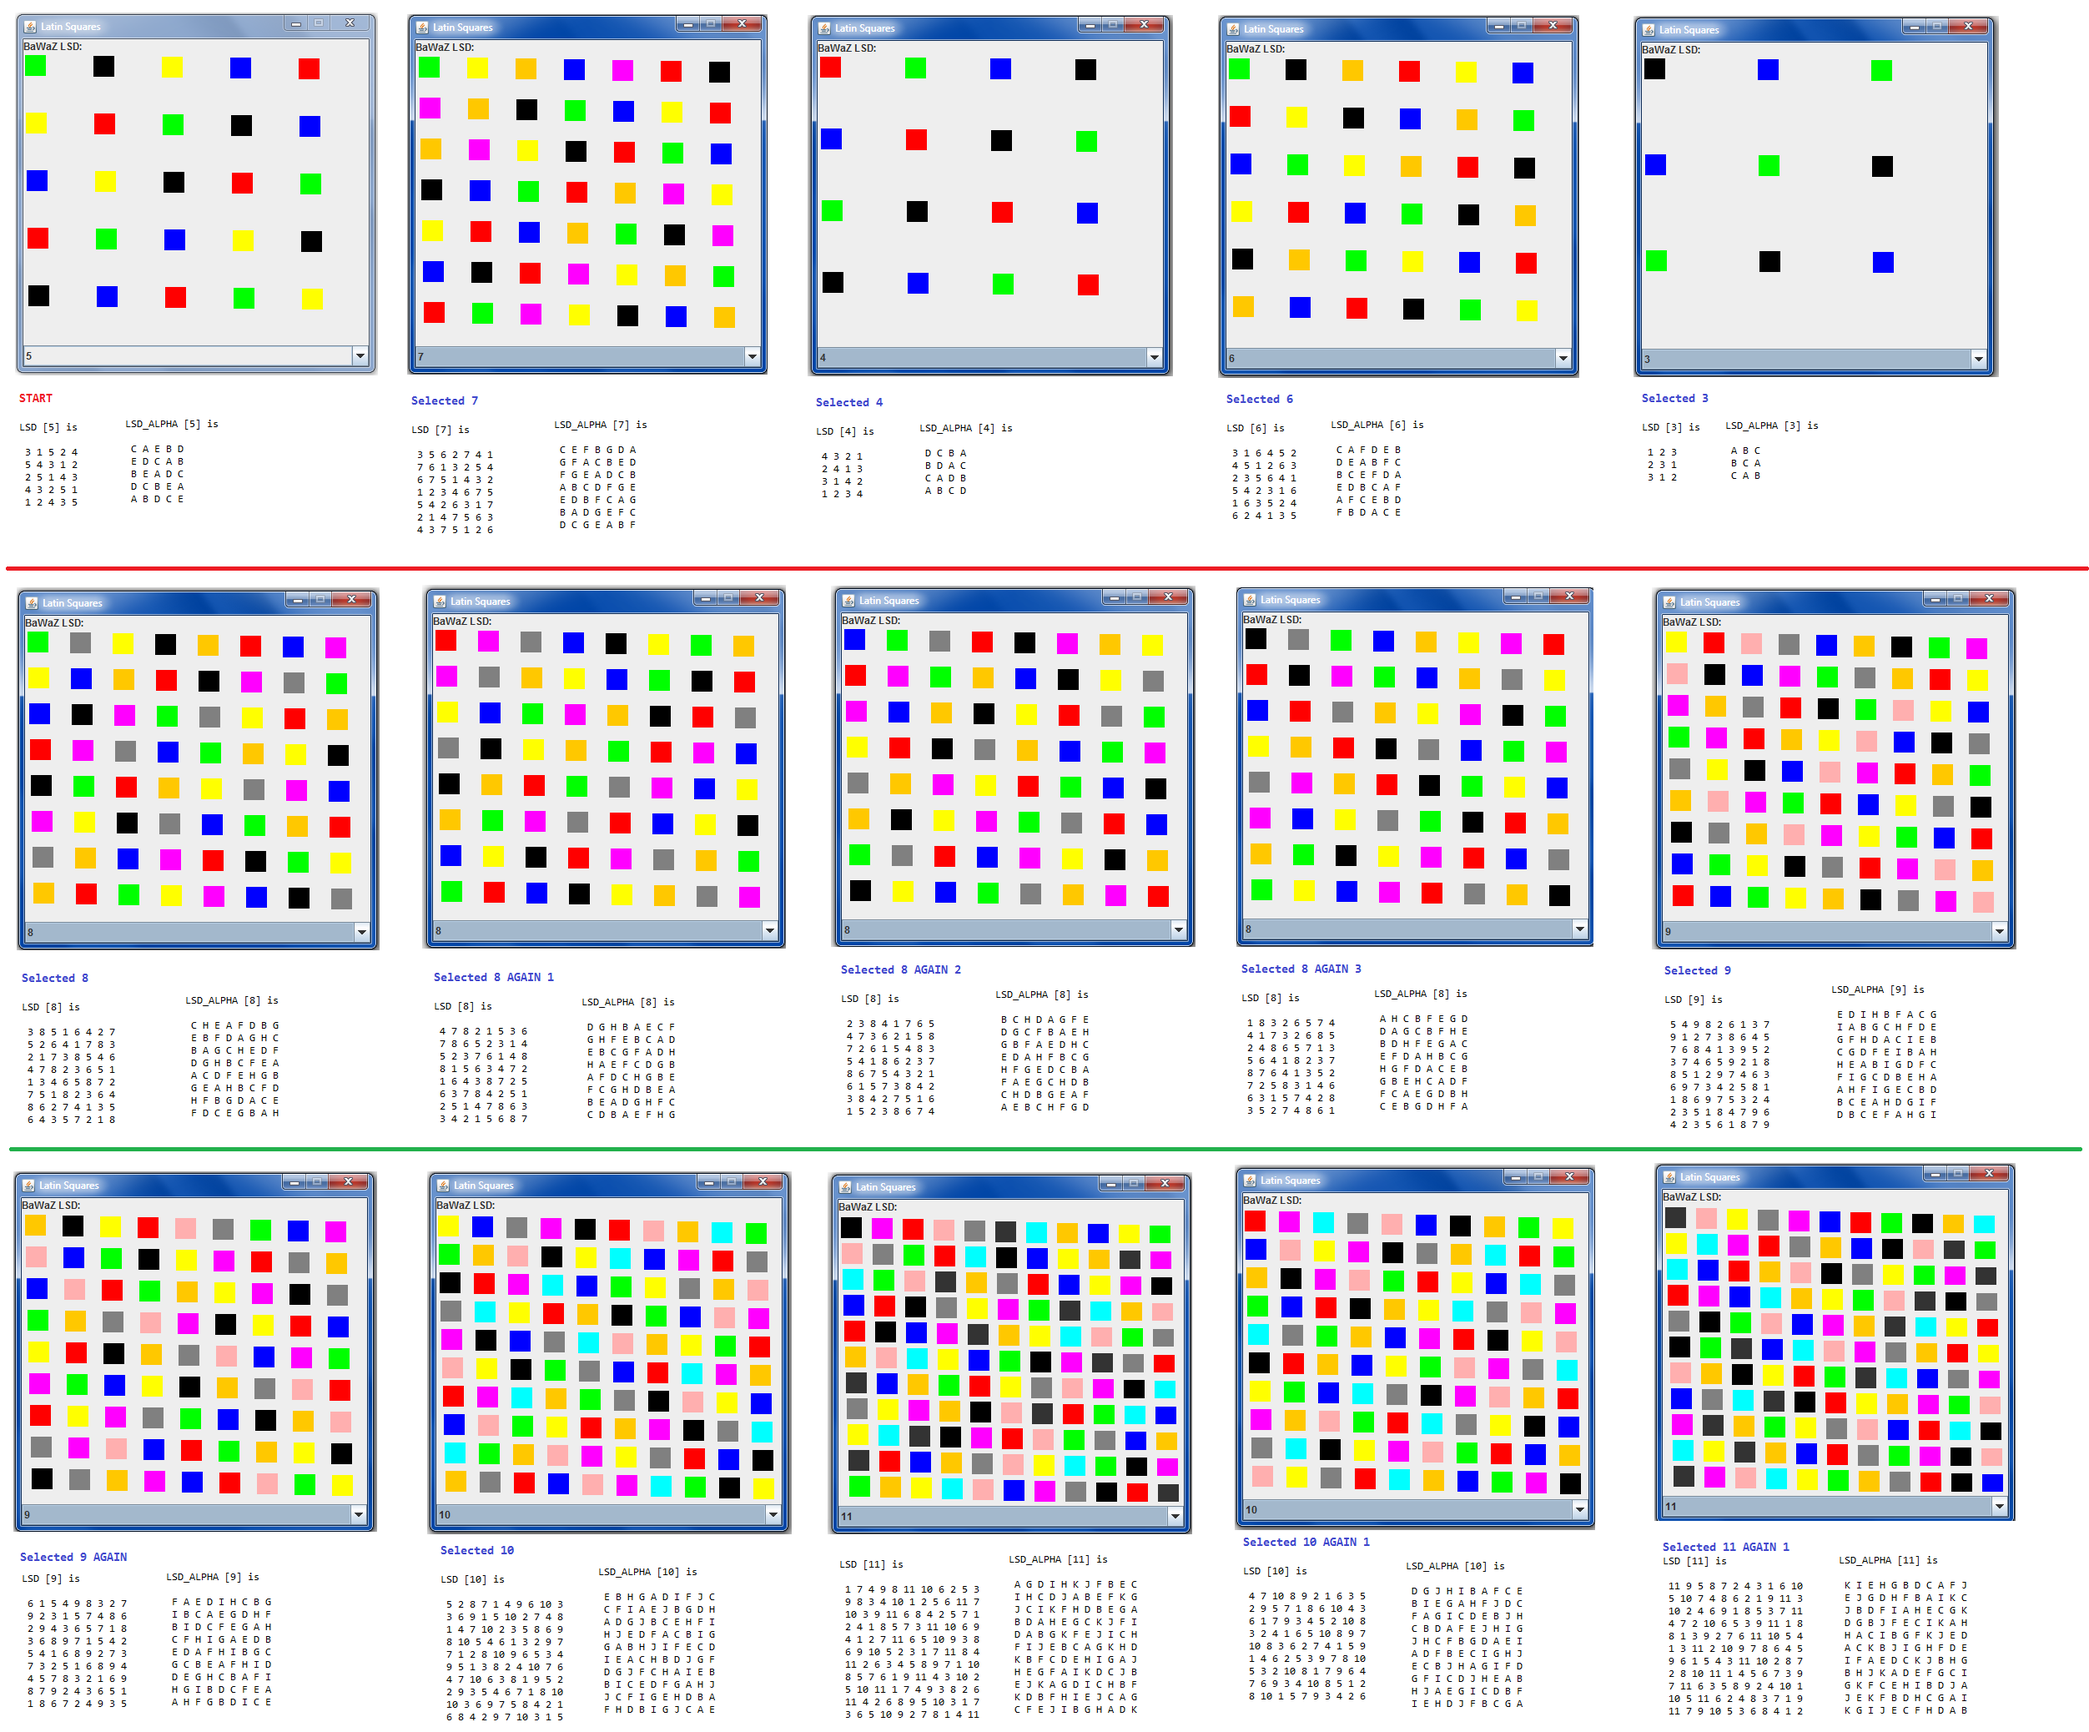
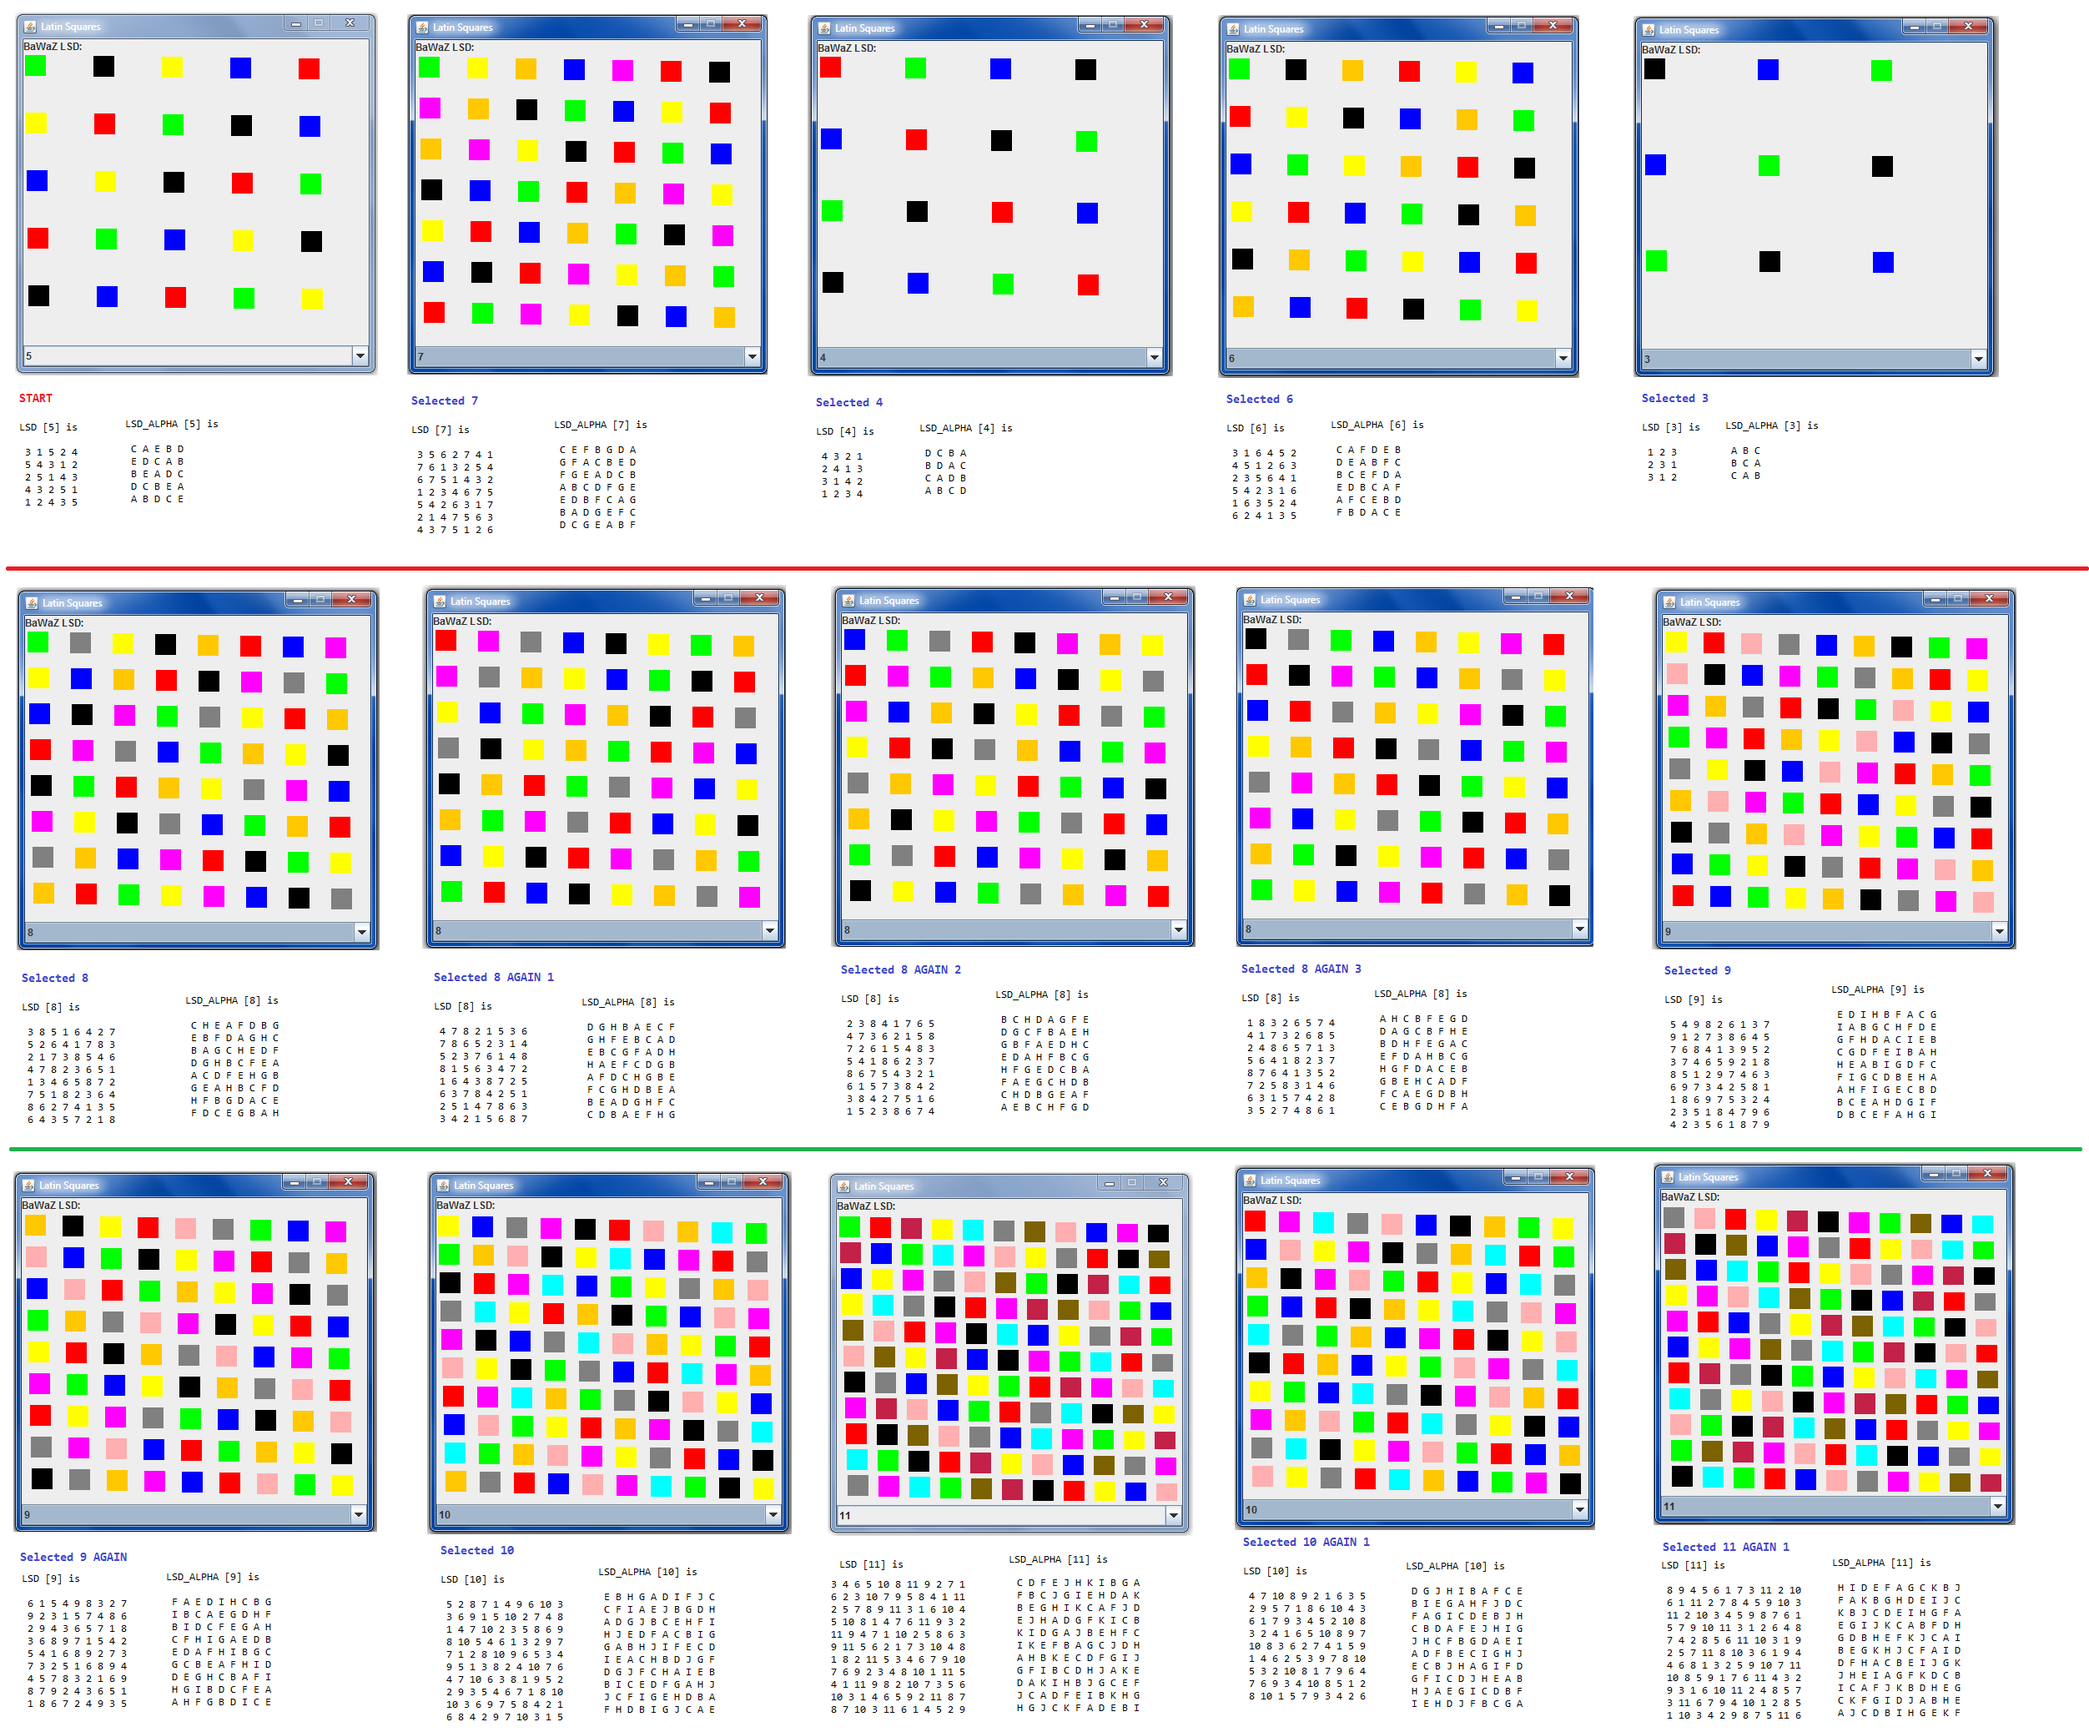
Added identity integrity checks

Changed region(s): [[0.3738, 0.6782, 0.5919, 1.0], [0.7788, 0.6782, 0.9657, 1.0]]

diff --git a/src/org/bawaweb/lsd/LSD.java b/src/org/bawaweb/lsd/LSD.java
@@ -1,6 +1,7 @@
 package org.bawaweb.lsd;
 
 import java.util.ArrayList;
+import java.util.Arrays;
 import java.util.Collections;
 import java.util.HashMap;
 import java.util.HashSet;
@@ -48,19 +49,95 @@ public class LSD {
 			} else {
 				int count = 0;
 				list2Add = shuffle(startList, rn);
-				while(!canAdd2Matrix(matrix, list2Add) && count<10000000) {
+				while(!canAdd2Matrix(matrix, list2Add) && count<1000000000) {
 					list2Add = shuffle(startList, rn);
 					count += 1;
 				}/*System.out.println("count = "+ count);*/
 				matrix[i] = toIntArray(list2Add);
 			}
 		}
-		printMatrix(matrix);
-		
-		return matrix;
+		if ( checkMatrix(matrix) ) {
+			printMatrix(matrix);
+			return matrix;
+		}
+		return null;
 	}
-	 
-	 private boolean canAdd2Matrix(int[][] aMatrix, List<Integer> aList) {
+	
+	//	uses sum of row = (n*(n+1))/2 formula.... n = boundary
+	private boolean checkMatrix(int[][] matrix) {
+		boolean checked = true;
+		
+		int rowSum, colSum = 0;
+		
+		final int length = matrix.length;
+		assert( this.boundary == length);
+		
+		final int target = ((length)*(length+1))/2;
+		
+		for(int row = 0; row < length; row++) {
+			checked = checked && ( target == getRowSum(matrix,row) );
+			if( !checked ) return false;
+		}
+		
+		for(int col = 0; col < length; col++) {
+			checked = checked && ( target == getColSum(matrix,col) );
+			if( !checked ) return false;
+		}
+		
+		
+		return checked;
+		
+	}
+
+	private int getColSum(int[][] matrix, int col) {
+		int sum = 0;
+		for (int r = 0; r < this.boundary; r++) {
+			sum += matrix[r][col];
+		}
+		return sum;
+	}
+
+	private int getRowSum(int[][] matrix, int row) {
+		int sum = 0;
+		for (int c = 0; c < this.boundary; c++) {
+			sum += matrix[row][c];
+		}
+		return sum;
+	}
+
+	private boolean checkMatrix_O(int[][] matrix) {
+		int length = matrix.length;
+		Set<Integer> checkSet = new HashSet<Integer>();		
+		for(int i = 1; i <= length; i++) {
+			checkSet.add(i);
+		}
+		
+		int[] row = matrix[0];
+		List<Integer> rowList = new ArrayList<Integer>();
+		for(int i = 0; i < row.length; i++) {
+			rowList.add( row[i] );
+		}
+
+		
+		List<Integer> colList = new ArrayList<Integer>();
+		for(int i = 0; i < length; i++) {
+			colList.add(matrix[i][0]);
+		}
+		
+		
+		for(int i = 0; i < row.length; i++) {
+			int aVal = row[i];
+			
+			if( checkSet.contains(aVal) && colList.contains(aVal) ) {
+				checkSet.remove(aVal);
+			} else {
+				return false;
+			}
+		}		
+		return true;
+	}
+
+	private boolean canAdd2Matrix(int[][] aMatrix, List<Integer> aList) {
 		 final int size = aList.size();
 		 for(int i = 0; i < size; i++) {
 			 int listValue = aList.get(i);
@@ -107,6 +184,16 @@ public class LSD {
 			theRow[col] = someMatrix[aRow][col];
 		}
 		return theRow;
+	}
+	
+	private void printSet(Set<Integer> aSet) {
+		Iterator<Integer> iter = aSet.iterator();
+		StringBuilder sb = new StringBuilder();
+		while (iter.hasNext()) {
+			sb.append(" " + iter.next() + " ");
+		}
+		System.out.println("\n\nSet is\n"+sb.toString()+"\n_______\n");
+		
 	}
 		
 	

diff --git a/src/org/bawaweb/lsd/ui/LSDPanel.java b/src/org/bawaweb/lsd/ui/LSDPanel.java
@@ -61,11 +61,12 @@ public class LSDPanel extends JPanel {
 		this.colorPaletteMap.put(	3,	Color.GREEN		);
 		this.colorPaletteMap.put(	4,	Color.RED		);
 		this.colorPaletteMap.put(	5,	Color.YELLOW	);
-		this.colorPaletteMap.put(	6,	Color.ORANGE	);
+		this.colorPaletteMap.put(	6,	new Color(195,33,72)	);	//maroon
 		this.colorPaletteMap.put(	7,	Color.MAGENTA	);
 		this.colorPaletteMap.put(	8,	Color.GRAY		);
 		this.colorPaletteMap.put(	9,	Color.PINK		);
 		this.colorPaletteMap.put(	10,	Color.CYAN		);
+		this.colorPaletteMap.put(	11,	Color.ORANGE.darker().darker()/*new Color(128,0,128)*/);
 		
 		this.colorPaletteMap	=	Collections.unmodifiableMap( this.colorPaletteMap );
 		
